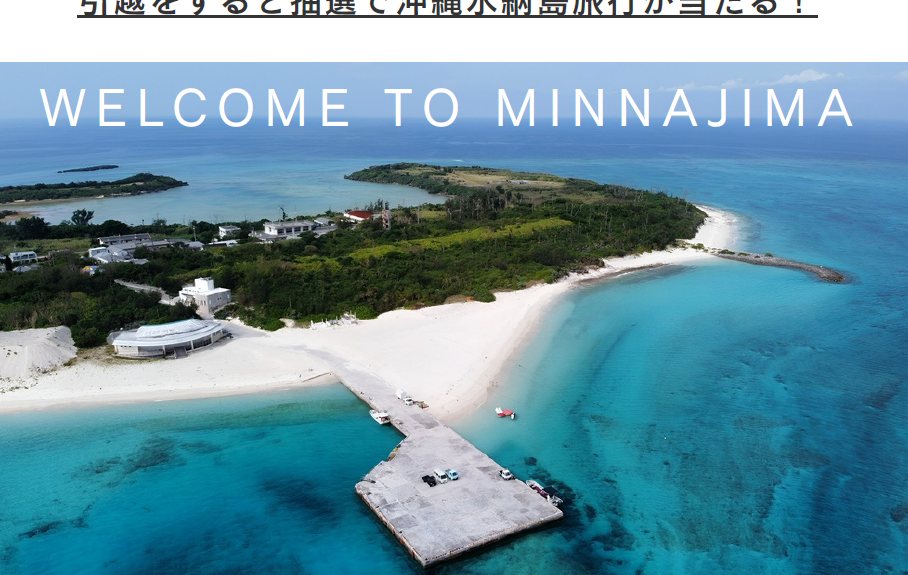
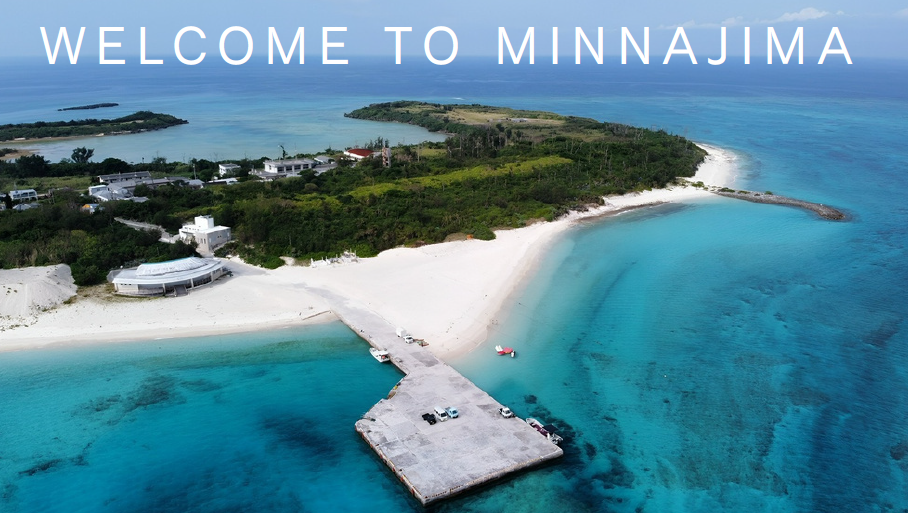
f

diff --git a/index.html b/index.html
@@ -44,15 +44,18 @@
     </div>
 
     <header class="hero" id="home">
-    <!-- クリック可能な画像リンク -->
-    <a href="minnnasima.html" class="minnnasima-link">
-        <img src="images/minnnasima.png" alt="minnnasimaへ" class="minnnasima-image">
-    </a>
-    <div class="hero-text">
+        <!-- 画像のみ表示（HP_tobirae.pngに変更） -->
+        <img src="images/HP_tobirae.png" alt="HP_tobiraeの画像" class="minnnasima-image">
 
-            
-
+        <div class="hero-text">
+            <!-- 他のテキストやコンテンツ -->
         </div>
+    </header>
+
+
+
+
+    </div>
     </header>
 
     <div class="container">
@@ -187,6 +190,13 @@
             </section>
 
         </main>
+    </div>
+
+    <div class="banner-link">
+        <a href="minnnasima.html">
+            <img src="images/minnnasima.png  " alt="みんなしまページへ"
+                style="width:100%; max-width:800px; display:block; margin: 0 auto;">
+        </a>
     </div>
 
 

diff --git a/company.html b/company.html
@@ -5,6 +5,7 @@
     <meta charset="UTF-8">
     <meta name="viewport" content="width=device-width, initial-scale=1.0">
     <title>会社概要 - フェイバー引越センター</title>
+    <link rel="stylesheet" href="style.css">
 
 
 </head>
